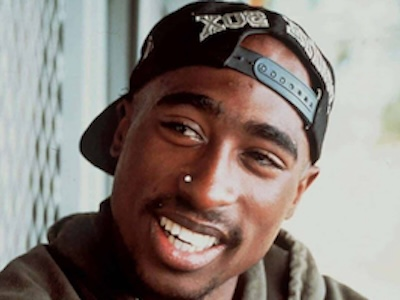
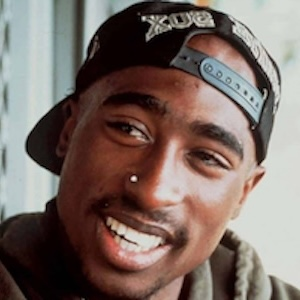
refactor legends to square

diff --git a/source/js/themes.js b/source/js/themes.js
@@ -120,12 +120,12 @@ export const themes = {
     3: { name: "2Pac", img: "./source/img/legends/2Pac.jpeg" },
     4: { name: "Biggie", img: "./source/img/legends/biggie.jpeg" },
     5: { name: "Bolt", img: "./source/img/legends/bolt.jpeg" },
-    6: { name: "Einstein", img: "./source/img/legends/Einstein.jpeg" },
+    6: { name: "einstein", img: "./source/img/legends/einstein.jpg" },
     7: { name: "Gretzky", img: "./source/img/legends/gretzky.jpeg" },
-    8: { name: "Jackson", img: "./source/img/legends/jackson.jpeg" },
+    8: { name: "Jackson", img: "./source/img/legends/jackson.jpg" },
     9: { name: "Jobs", img: "./source/img/legends/jobs.jpeg" },
-    10: { name: "Jordan", img: "./source/img/legends/jordan.jpeg" },
-    11: { name: "Ledecka", img: "./source/img/legends/ledecka.jpeg" },
+    10: { name: "Jordan", img: "./source/img/legends/jordan.jpg" },
+    11: { name: "Ledecka", img: "./source/img/legends/ledecka.jpg" },
     12: { name: "Zatopek", img: "./source/img/legends/zatopek.jpeg" },
   },
 };
